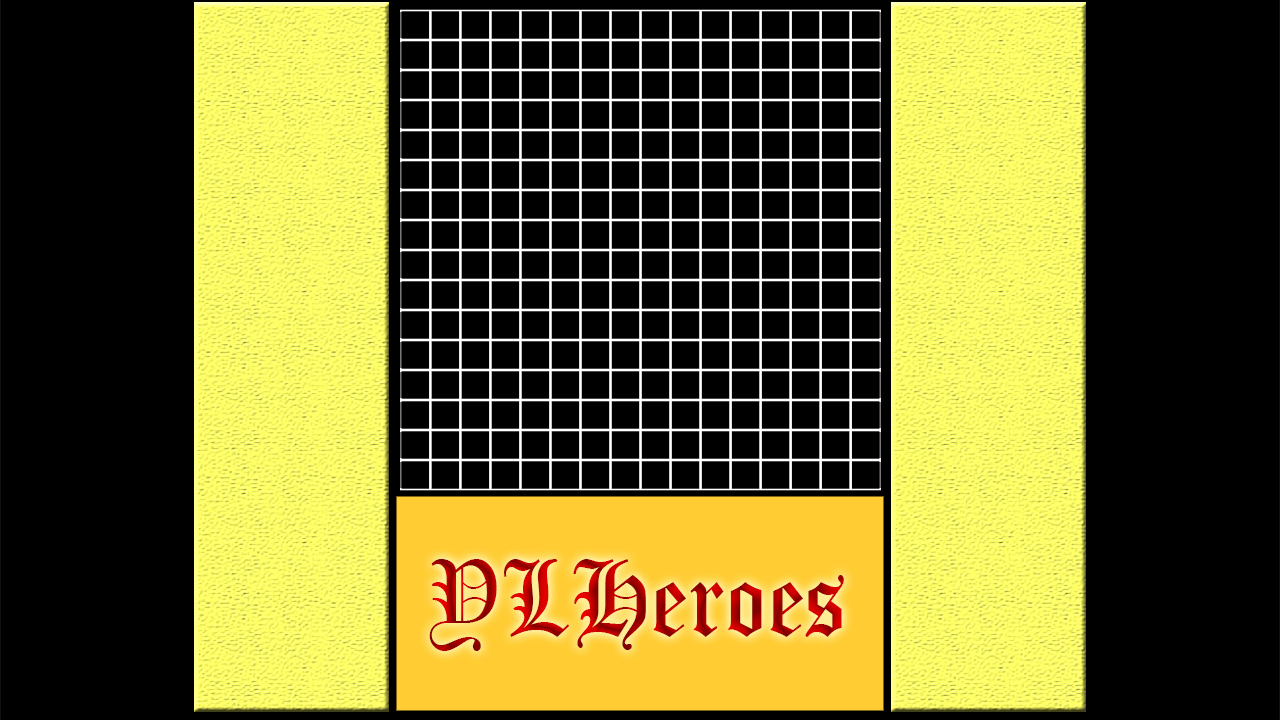
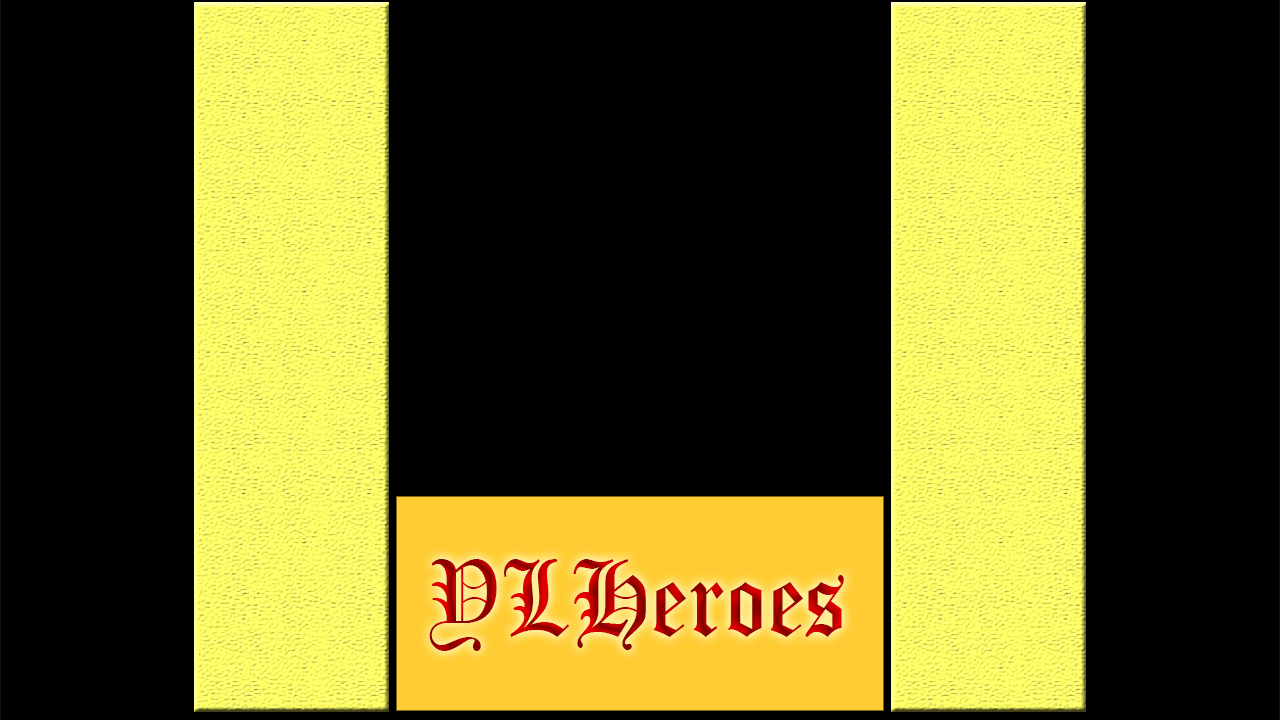
map generator alpha v4.0 (without picture)

Changed region(s): [[0.3125, 0.0, 0.6875, 0.7028]]

diff --git a/MapGenerator.py b/MapGenerator.py
@@ -1,5 +1,8 @@
 import pygame as pg
 import os
+from tkinter import *
+from tkinter import messagebox as mb
+from PIL import Image, ImageDraw
 
 pg.init()
 
@@ -16,7 +19,7 @@ def load_image(name, colorkey=None):  # загрузка изображения
     return image
 
 
-class Button:
+class PgButton:
     def __init__(self, xy, wh, image):
         self.xy = xy
         self.wh = wh
@@ -30,13 +33,14 @@ class Button:
 
 
 class GameObject(pg.sprite.Sprite):  # класс спрайтов
-    def __init__(self, cords, pos, img):
+    def __init__(self, cords, pos, img, txt_char):
         super().__init__()
         self.pos = pos
-        self.image = pg.transform.scale(img, (30, 30))
+        self.image = pg.transform.scale(load_image(img), (30, 30))
         self.rect = self.image.get_rect()
         self.rect.x = cords[0]
         self.rect.y = cords[1]
+        self.txt_char = txt_char
 
 
 class Board:
@@ -46,7 +50,7 @@ class Board:
         self.background_board = [[GameObject((
             i * 30 + (1280 - 30 * 16) // 2, j * 30 + 10),
             (j, i),
-            load_image('road.jpg')) for i in range(width)] for j in range(height)]
+            'grass.jpg', '0') for i in range(width)] for j in range(height)]
         self.txt_primary_map = [['*'] * width for _ in range(height)]
         self.txt_background_map = [['0'] * width for _ in range(height)]
         # координаты и размер доски в данный момент
@@ -63,14 +67,14 @@ class Board:
         self.background_objects = pg.sprite.Group()
         self.all_objects_cursor = 0
         # формат: [Название объекта, изображение, тип, обозначение для текстового файла]
-        self.all_objects = [('Castle', load_image('castle.png', -1), 'primary', '2'),
-                            ('Road', load_image('road.jpg'), 'background', '0'),
-                            ('Grass', load_image('grass.jpg'), 'background', '1')]
+        self.all_objects = {0: ('Castle', 'castle.png', 'primary', '2'),
+                            1: ('Road', 'road.jpg', 'background', '1'),
+                            2: ('Grass', 'grass.jpg', 'background', '0')}
         # кнопки
-        self.buttonup = Button((self.LEFT + 16 * self.CELL_SIZE + 70, 170), (60, 20), load_image('arrowbtnup.jpg'))
-        self.buttondown = Button((self.LEFT + 16 * self.CELL_SIZE + 70, 270), (60, 20), load_image('arrowbtndown.jpg'))
-        self.savebutton = Button((self.LEFT + 16 * self.CELL_SIZE + 60, 500), (80, 40), load_image('savebutton.jpg'))
-        # self.infobutton = Button((x, y), (30, 30), load_image('infobutton.jpg'))
+        self.buttonup = PgButton((self.LEFT + 16 * self.CELL_SIZE + 70, 170), (60, 20), load_image('arrowbtnup.jpg'))
+        self.buttondown = PgButton((self.LEFT + 16 * self.CELL_SIZE + 70, 270), (60, 20),
+                                   load_image('arrowbtndown.jpg'))
+        self.savebutton = PgButton((self.LEFT + 16 * self.CELL_SIZE + 60, 500), (80, 40), load_image('savebutton.jpg'))
 
     def render_interface(self, surface):
         # загрузка фонового изображения
@@ -78,7 +82,7 @@ class Board:
         # отрисовка кнопок и элементов для взаимодействия
         pg.draw.rect(surface, (0, 0, 0), (self.LEFT + 16 * self.CELL_SIZE + 70, 200,
                                           60, 60))  # черный прямоугольник-рамка для объекта
-        img = pg.transform.scale(self.all_objects[self.all_objects_cursor][1], (60, 60))  # объект из списка
+        img = pg.transform.scale(load_image(self.all_objects[self.all_objects_cursor][1]), (60, 60))  # объект из списка
         surface.blit(img, (self.LEFT + 16 * self.CELL_SIZE + 70, 200))
 
         self.buttonup.draw_button(surface)
@@ -114,7 +118,7 @@ class Board:
                 self.primary_board[cell[0]][cell[1]] = GameObject(
                     ((cell[1]) * 30 + self.LEFT, (cell[0]) * 30 + self.TOP),
                     (cell[0], cell[1]),
-                    self.all_objects[self.all_objects_cursor][1])
+                    self.all_objects[self.all_objects_cursor][1], self.all_objects[self.all_objects_cursor][-1])
                 for i in self.primary_objects:
                     if i.pos[1] == cell[1] and i.pos[0] == cell[0]:
                         i.kill()
@@ -124,7 +128,7 @@ class Board:
                 self.background_board[cell[0]][cell[1]] = GameObject((
                     cell[1] * 30 + self.LEFT, cell[0] * 30 + self.TOP),
                     (cell[0], cell[1]),
-                    self.all_objects[self.all_objects_cursor][1])
+                    self.all_objects[self.all_objects_cursor][1], self.all_objects[self.all_objects_cursor][-1])
                 for i in self.background_objects:
                     if i.pos[1] == cell[1] and i.pos[0] == cell[0]:
                         i.kill()
@@ -152,6 +156,35 @@ class Board:
             self.all_objects_cursor = max(0, self.all_objects_cursor - 1)
         elif self.buttondown.check_hit(pos):
             self.all_objects_cursor = min(len(self.all_objects) - 1, self.all_objects_cursor + 1)
+        elif self.savebutton.check_hit(pos):
+            self.save_map()
+
+    def save_map(self):
+        self.name = None
+        self.root = Tk()
+        self.entry = Entry()
+        self.entry.pack(pady=10)
+        Button(text='Ввести', command=self.check).pack()
+        self.label = Label(height=1)
+        self.label.pack()
+        self.root.mainloop()
+        # объекты переднего плана
+        f = open(f"maps/{self.name}_primary.txt", 'w', encoding='utf8')
+        f.write('\n'.join([''.join([i.txt_char if i != '*' else '*' for i in j]) for j in self.primary_board]))
+        f.close()
+        # объекты заднего плана
+        f = open(f"maps/{self.name}_background.txt", 'w', encoding='utf8')
+        f.write('\n'.join([''.join([i.txt_char for i in j]) for j in self.background_board]))
+        f.close()
+        # картинка карты
+        new_image = Image.new("RGB", (32 * 30, 32 * 30), (0, 0, 0))
+
+    def check(self):
+        answer = mb.askyesno(title="Вопрос", message="Перенести данные?")
+        if answer == True:
+            self.name = self.entry.get()
+            self.entry.delete(0, END)
+            self.root.destroy()
 
 
 def run():
@@ -187,7 +220,7 @@ def run():
         board.background_objects.draw(screen)
         board.primary_objects.draw(screen)
         pg.display.flip()
-        clock.tick(5)
+        clock.tick(15)
 
     pg.quit()
 
